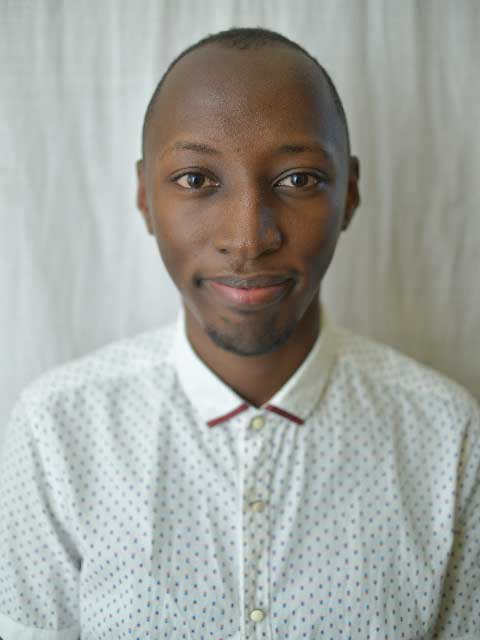
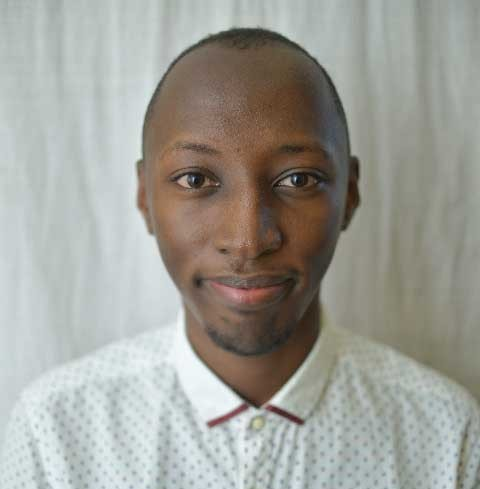
feat: improve accessibility with scroll margin for sticky headers and enhance Stack section styling

diff --git a/src/App.jsx b/src/App.jsx
@@ -11,12 +11,12 @@ function App() {
   return (
     <>
       {/* Skip to main content link for keyboard navigation */}
-      <a
+      {/* <a
         href="#main-content"
         className="sr-only focus:not-sr-only focus:absolute focus:top-4 focus:left-4 focus:z-[100] focus:px-4 focus:py-2 focus:bg-[#58c4dc] focus:text-[#16171d] focus:rounded-lg focus:font-medium focus:outline-none"
       >
         Skip to main content
-      </a>
+      </a> */}
 
       <Header />
       <main id="main-content">

diff --git a/src/sections/Stack.jsx b/src/sections/Stack.jsx
@@ -25,7 +25,7 @@ function Stack() {
     <section
       id="Languages-&-Tools"
       aria-label="Languages and tools I use"
-      className="flex flex-col gap-2 justify-center mt-6"
+      className="flex flex-col gap-2 justify-center p-6"
     >
       <h2 className="text-xl block text-center">Languages and Tools</h2>
       <ul className="flex gap-2 justify-center list-none m-0 p-0">

diff --git a/src/index.css b/src/index.css
@@ -4,6 +4,12 @@
     html {
         scroll-behavior: smooth;
     }
+
+    /* Account for sticky header when jumping to anchor sections */
+    section[id],
+    footer[id] {
+        scroll-margin-top: 100px;
+    }
 }
 
 /* Screen reader only utility */
@@ -143,4 +149,3 @@ code {
   padding: 4px 8px;
   background: var(--code-bg);
 }
-
